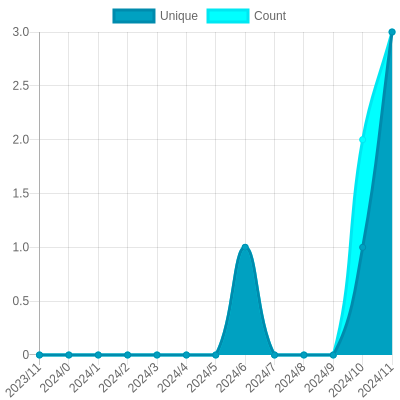
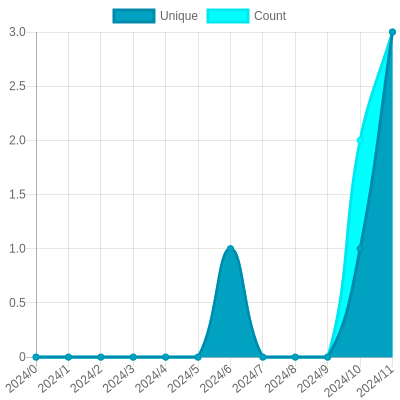
Update views

Changed region(s): [[0.0, 0.09, 0.99, 1.0], [0.96, 0.06, 0.99, 0.15], [0.03, 0.06, 0.09, 0.09]]

diff --git a/README.md b/README.md
@@ -26,7 +26,7 @@ The project created and maintained by [gayanvoice](https://github.com/gayanvoice
 			</a>
 		</td>
 		<td>
-			2023/12/29 12:39 AM UTC
+			2023/12/30 12:47 AM UTC
 		</td>
 		<td>
 			5
@@ -37,7 +37,7 @@ The project created and maintained by [gayanvoice](https://github.com/gayanvoice
 	</tr>
 </table>
 
-<small><i>Last updated on 2023/12/31 6:12 PM UTC</i></small>
+<small><i>Last updated on 2024/1/1 12:55 AM UTC</i></small>
 
 ## ✂Copy and 📋 Paste
 ### Total Views Badge

diff --git a/readme/631592938/year.md b/readme/631592938/year.md
@@ -150,21 +150,10 @@
 			<code>0</code>
 		</td>
 	</tr>
-	<tr>
-		<td>
-			<code>2022/12/1</code>
-		</td>
-		<td>
-			<code>0</code>
-		</td>
-		<td>
-			<code>0</code>
-		</td>
-	</tr>
 </table>
 
 </details>
-<small><i>Last updated on 2023/12/31 6:11 PM UTC</i></small>
+<small><i>Last updated on 2024/1/1 12:54 AM UTC</i></small>
 
 ## ✂Copy and 📋 Paste
 ### SVG Badge
